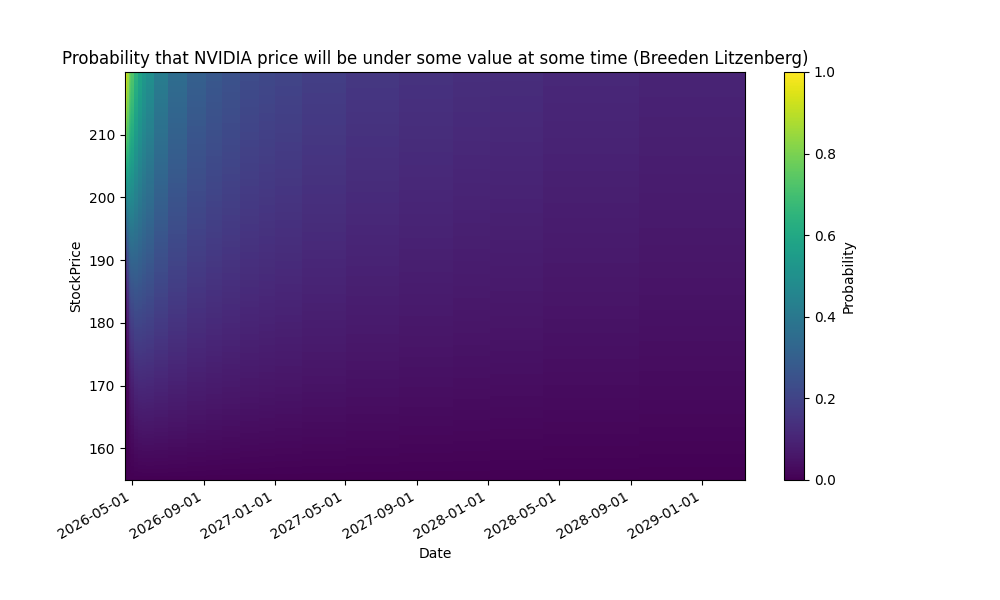
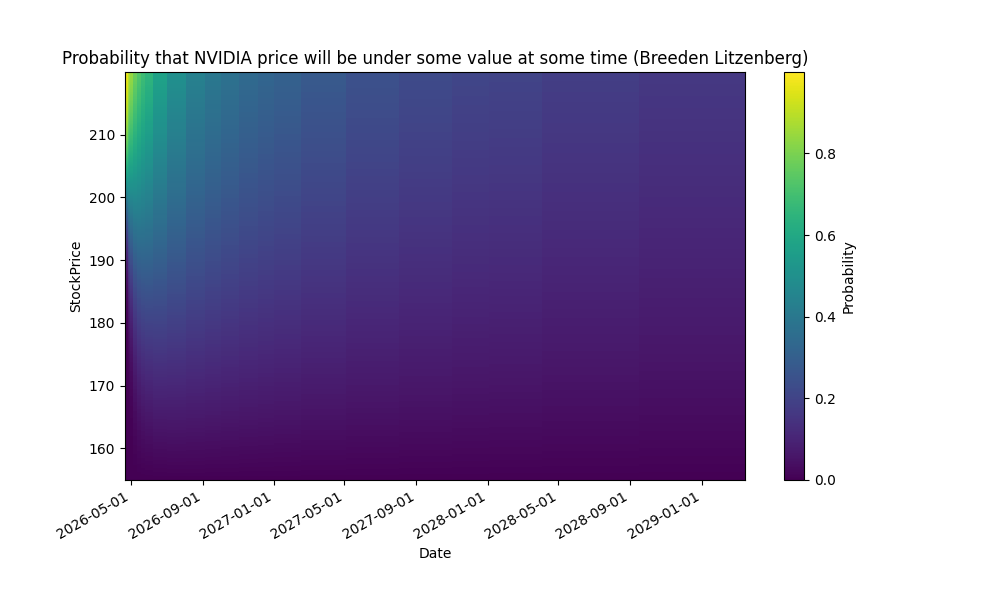
updated logs

diff --git a/README.md b/README.md
@@ -26,13 +26,17 @@ If you want to understand how this animation was created, then you can check out
 
 ## Daily Updated Bullet Points for Sentiment Analysis for NVIDIA stock
 <!-- BulletPointStart -->
-- Nvidia’s Vera Rubin platform is being deployed in large AI infrastructure deals (e.g., Meta and Nebius), underscoring Nvidia’s role in real-world, cloud-scale AI deployments.
-- Nvidia-anchored ecosystem growth via Marvell: Nvidia invested $2 billion in Marvell and a NVLink Fusion partnership to scale semi-custom AI accelerators, expanding Nvidia’s data-center and interconnect footprint.
-- Nvidia stock sentiment remains very bullish: consensus Strong Buy with about 41 Buy, 1 Hold, 1 Sell; average target around $273.57 implying roughly 36% upside.
-- Nvidia is a driver in quantum computing momentum: Nvidia’s quantum‑AI Ising models are contributing to renewed interest in quantum-related plays and the potential start of a quantum growth cycle.
-- Nvidia’s market footprint in major ETFs: NVDA is a top holding in broad-market ETFs like VOO (and related funds such as VOOG/VOOV), signaling strong passive‑fund demand and wide market exposure to Nvidia’s growth. 
+- Nvidia (NVDA) is developing its own Co-Packaged Optics (CPO) technology for the Vera Rubin AI accelerators, signaling ongoing hardware innovation and competition in AI workloads (Article 6).
 
+- Nvidia is a key enterprise partner in Adobe’s CX Enterprise ecosystem, with the Nvidia Agent Toolkit powering CX Enterprise Coworker and OpenShell integration to coordinate multi-agent AI workflows (Articles 5 and 9).
 
+- Nvidia is highlighted as the dominant AI chip leader in the market, with Cerebras positioned as a rival in the IPO landscape and NVDA’s continued market dominance noted in analysis coverage (Article 10).
+
+- There is strong investor interest in NVDA options, including large open interest in NVDA calls and notable 5/8 weekly call activity, indicating bullish sentiment from options traders (Article 8).
+
+- Analysts remain bullish on Nvidia, with TipRanks citing a Strong Buy rating and a 12-month price target around $273, implying significant upside (Article 10).
+
+Optimism rating for NVDA stock: 
 <!-- BulletPointEnd -->
 
 These Bullet Points get updated after every trading day. They are based on news articles from [News Articles about Nvidia](https://markets.businessinsider.com/news/nvda-stock). They get summarized by ChatGPT into the bullet points above and on top of that ChatGPT gives an optimism ranking from 1-10 for the Nvidia stock based on the articles, which is displayed above.